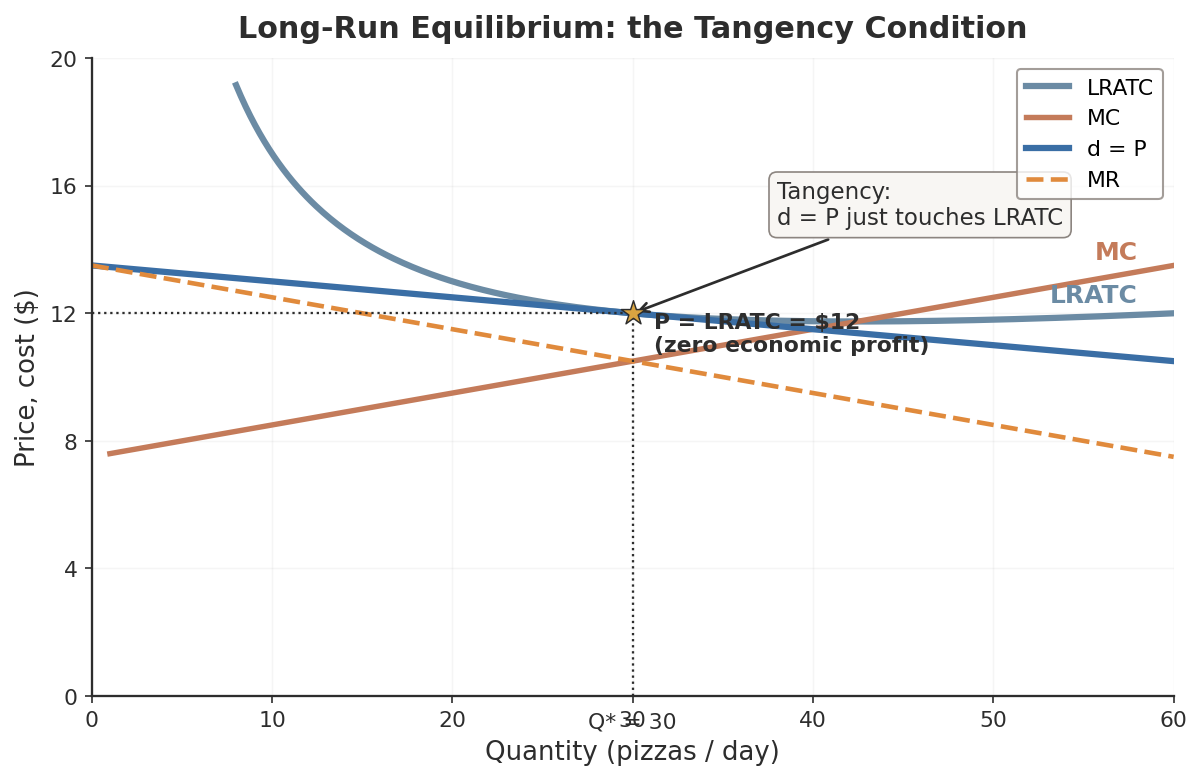
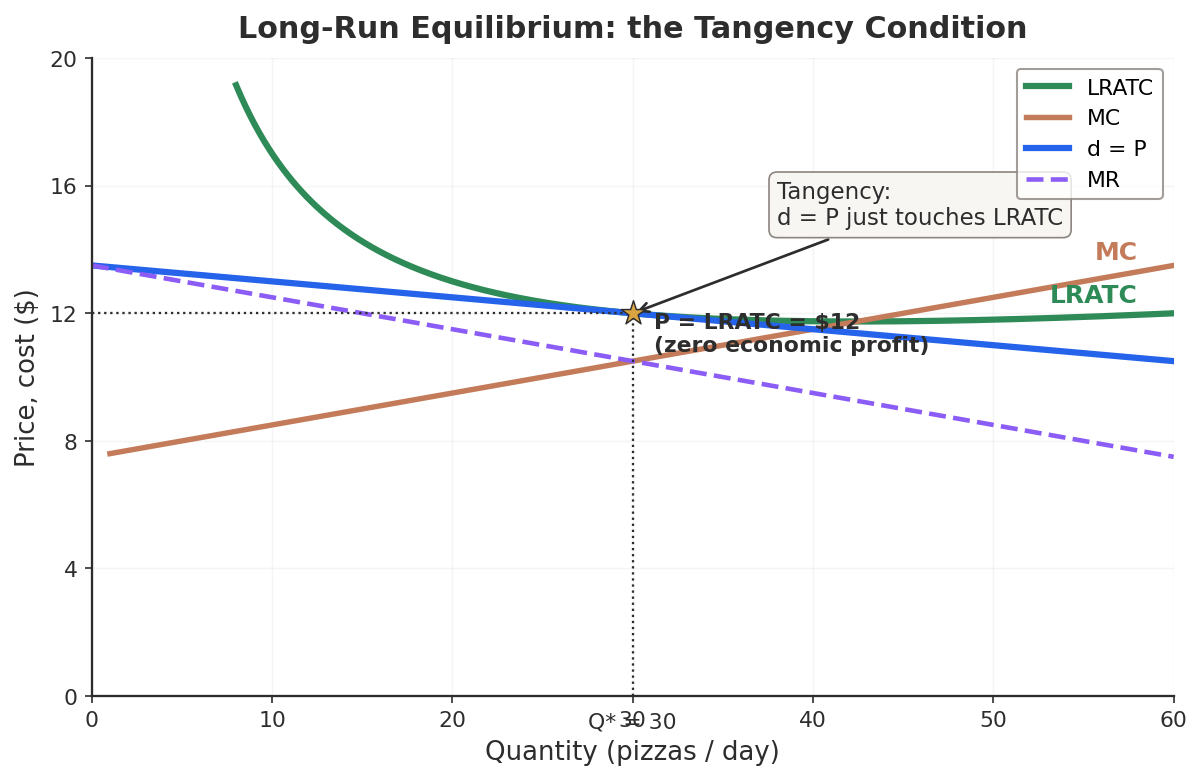
ch12: recolor cost-curve charts for readability (LRATC green vs blue demand)
LRATC/ATC -> green (#2e8b57), demand d=P -> blue (#2563eb), MC -> terracotta,
MR -> purple dashed. Fixes the two-blues clash (LRATC vs demand) on pages
35/41/42/46/50; banner+caption say LRATC consistently.

diff --git a/econ1116/ch12-monopolistic-competition/index.html b/econ1116/ch12-monopolistic-competition/index.html
@@ -699,7 +699,7 @@
    <svg id="f122-svg" viewBox="0 0 700 380" preserveAspectRatio="xMidYMid meet" style="width:100%; height:auto; max-height:288px; display:block;"></svg>
    <div style="max-width:420px; margin:4px auto 0;"><label class="iv-label">Drag demand &mdash; up = profit, down = loss</label><input type="range" class="iv-slider" id="f122-a" min="12.0" max="15.0" step="0.05" value="13.5"></div>
    <div style="text-align:center; margin-top:6px;"><button class="iv-btn" id="f122-release"><i class="fa-solid fa-arrows-rotate"></i> Release &rarr; entry/exit eases to tangency</button></div>
-   <p class="iv-cap">Figure 12.2 &mdash; the tangency is an <strong>attractor</strong>: perturb demand, release, and entry/exit pulls it back to P = ATC.</p>
+   <p class="iv-cap">Figure 12.2 &mdash; the tangency is an <strong>attractor</strong>: perturb demand, release, and entry/exit pulls it back to P = LRATC.</p>
   </div>
  </div>
  <aside class="notes">Key contrast with Ch 10: in PC, entry shifts the MARKET supply curve and the price falls. In MC, entry shifts each FIRM'S demand curve left. Same destination (zero profit), different channel. The interactive Figure 12.2 makes it tangible: drag demand up/down to create temporary profit/loss, release, and entry/exit eases it back to the zero-profit tangency.</aside>
@@ -1355,17 +1355,17 @@
    var good=prof>=0, fill=good?'rgba(106,142,107,0.22)':'rgba(168,92,92,0.20)', ec=good?'#6A8E6B':'#A85C5C';
    var yTop=yy(Math.max(P,atc)), yBot=yy(Math.min(P,atc));
    s+='<rect x="'+xx(0).toFixed(1)+'" y="'+yTop.toFixed(1)+'" width="'+(xx(qs)-xx(0)).toFixed(1)+'" height="'+(yBot-yTop).toFixed(1)+'" fill="'+fill+'" stroke="'+ec+'" stroke-width="1.1" stroke-dasharray="4 3"/>';
-   s+='<path d="'+pathfn(ATC,8,QMAX)+'" fill="none" stroke="#6B8BA4" stroke-width="2.6"/>';
+   s+='<path d="'+pathfn(ATC,8,QMAX)+'" fill="none" stroke="#2e8b57" stroke-width="2.6"/>';
    s+='<path d="'+pathfn(MC,2,QMAX)+'" fill="none" stroke="#C47B5A" stroke-width="2.4"/>';
    s+='<path d="'+pathfn(function(q){return Df(a,q);},0,QMAX)+'" fill="none" stroke="#2563eb" stroke-width="2.8"/>';
    s+='<path d="'+pathfn(function(q){return MRf(a,q);},0,QMAX)+'" fill="none" stroke="#8b5cf6" stroke-width="2.2" stroke-dasharray="7 4"/>';
    s+='<text x="'+(R-4)+'" y="'+(yy(MC(57))-6).toFixed(1)+'" text-anchor="end" font-size="12" font-weight="700" fill="#C47B5A">MC</text>';
-   s+='<text x="'+(R-4)+'" y="'+(yy(ATC(57))+15).toFixed(1)+'" text-anchor="end" font-size="12" font-weight="700" fill="#6B8BA4">'+atcLabel+'</text>';
+   s+='<text x="'+(R-4)+'" y="'+(yy(ATC(57))+15).toFixed(1)+'" text-anchor="end" font-size="12" font-weight="700" fill="#2e8b57">'+atcLabel+'</text>';
    s+='<text x="'+(xx(QMAX)-4)+'" y="'+(yy(Df(a,QMAX))-7).toFixed(1)+'" text-anchor="end" font-size="12.5" font-weight="700" font-style="italic" fill="#2563eb">D</text>';
    s+='<text x="'+xx(Math.min(QMAX-12,qs+26)).toFixed(1)+'" y="'+(yy(MRf(a,Math.min(QMAX-12,qs+26)))+14).toFixed(1)+'" font-size="11.5" font-weight="700" font-style="italic" fill="#8b5cf6">MR</text>';
    s+='<line x1="'+xx(qs).toFixed(1)+'" y1="'+yy(P).toFixed(1)+'" x2="'+xx(qs).toFixed(1)+'" y2="'+Bm+'" stroke="#9ca3af" stroke-width="1" stroke-dasharray="4 3"/>';
    s+='<text x="'+xx(qs).toFixed(1)+'" y="'+(Bm-5)+'" text-anchor="middle" font-size="10.5" font-weight="700" fill="#3A3632">Q* = '+qs.toFixed(0)+'</text>';
-   s+='<circle cx="'+xx(qs).toFixed(1)+'" cy="'+yy(atc).toFixed(1)+'" r="5" fill="#6B8BA4" stroke="#fff" stroke-width="1.6"/>';
+   s+='<circle cx="'+xx(qs).toFixed(1)+'" cy="'+yy(atc).toFixed(1)+'" r="5" fill="#2e8b57" stroke="#fff" stroke-width="1.6"/>';
    s+='<circle cx="'+xx(qs).toFixed(1)+'" cy="'+yy(P).toFixed(1)+'" r="6.5" fill="#2563eb" stroke="#fff" stroke-width="2"/>';
    svg.innerHTML=s;
    var z=prof>0.5?'profit':(prof<-0.5?'loss':'zero');
@@ -1374,7 +1374,7 @@
    var bg=z==='profit'?'rgba(106,142,107,0.16)':(z==='loss'?'rgba(168,92,92,0.14)':'rgba(107,139,164,0.16)');
    bn.innerHTML=bt; bn.style.color=bc; bn.style.background=bg;
    var pc=prof>=0?'#4d7a4e':'#A85C5C';
-   sc.innerHTML='<span style="color:#2563eb;">P* = $'+P.toFixed(2)+'</span><span style="color:#6B8BA4;">'+atcLabel+' = $'+atc.toFixed(2)+'</span><span style="color:#3A3632;">Q* = '+qs.toFixed(0)+'</span><span style="color:'+pc+';">Profit = $'+prof.toFixed(0)+'</span>';
+   sc.innerHTML='<span style="color:#2563eb;">P* = $'+P.toFixed(2)+'</span><span style="color:#2e8b57;">'+atcLabel+' = $'+atc.toFixed(2)+'</span><span style="color:#3A3632;">Q* = '+qs.toFixed(0)+'</span><span style="color:'+pc+';">Profit = $'+prof.toFixed(0)+'</span>';
    document.querySelectorAll('[data-a][data-grp="'+prefix+'"]').forEach(function(btn){btn.classList.toggle('active',Math.abs(parseFloat(btn.dataset.a)-a)<0.03);});
   }
   aS.addEventListener('input',draw);

diff --git a/econ1116/ch12-monopolistic-competition/presentation.html b/econ1116/ch12-monopolistic-competition/presentation.html
@@ -699,7 +699,7 @@
    <svg id="f122-svg" viewBox="0 0 700 380" preserveAspectRatio="xMidYMid meet" style="width:100%; height:auto; max-height:288px; display:block;"></svg>
    <div style="max-width:420px; margin:4px auto 0;"><label class="iv-label">Drag demand &mdash; up = profit, down = loss</label><input type="range" class="iv-slider" id="f122-a" min="12.0" max="15.0" step="0.05" value="13.5"></div>
    <div style="text-align:center; margin-top:6px;"><button class="iv-btn" id="f122-release"><i class="fa-solid fa-arrows-rotate"></i> Release &rarr; entry/exit eases to tangency</button></div>
-   <p class="iv-cap">Figure 12.2 &mdash; the tangency is an <strong>attractor</strong>: perturb demand, release, and entry/exit pulls it back to P = ATC.</p>
+   <p class="iv-cap">Figure 12.2 &mdash; the tangency is an <strong>attractor</strong>: perturb demand, release, and entry/exit pulls it back to P = LRATC.</p>
   </div>
  </div>
  <aside class="notes">Key contrast with Ch 10: in PC, entry shifts the MARKET supply curve and the price falls. In MC, entry shifts each FIRM'S demand curve left. Same destination (zero profit), different channel. The interactive Figure 12.2 makes it tangible: drag demand up/down to create temporary profit/loss, release, and entry/exit eases it back to the zero-profit tangency.</aside>
@@ -1355,17 +1355,17 @@
    var good=prof>=0, fill=good?'rgba(106,142,107,0.22)':'rgba(168,92,92,0.20)', ec=good?'#6A8E6B':'#A85C5C';
    var yTop=yy(Math.max(P,atc)), yBot=yy(Math.min(P,atc));
    s+='<rect x="'+xx(0).toFixed(1)+'" y="'+yTop.toFixed(1)+'" width="'+(xx(qs)-xx(0)).toFixed(1)+'" height="'+(yBot-yTop).toFixed(1)+'" fill="'+fill+'" stroke="'+ec+'" stroke-width="1.1" stroke-dasharray="4 3"/>';
-   s+='<path d="'+pathfn(ATC,8,QMAX)+'" fill="none" stroke="#6B8BA4" stroke-width="2.6"/>';
+   s+='<path d="'+pathfn(ATC,8,QMAX)+'" fill="none" stroke="#2e8b57" stroke-width="2.6"/>';
    s+='<path d="'+pathfn(MC,2,QMAX)+'" fill="none" stroke="#C47B5A" stroke-width="2.4"/>';
    s+='<path d="'+pathfn(function(q){return Df(a,q);},0,QMAX)+'" fill="none" stroke="#2563eb" stroke-width="2.8"/>';
    s+='<path d="'+pathfn(function(q){return MRf(a,q);},0,QMAX)+'" fill="none" stroke="#8b5cf6" stroke-width="2.2" stroke-dasharray="7 4"/>';
    s+='<text x="'+(R-4)+'" y="'+(yy(MC(57))-6).toFixed(1)+'" text-anchor="end" font-size="12" font-weight="700" fill="#C47B5A">MC</text>';
-   s+='<text x="'+(R-4)+'" y="'+(yy(ATC(57))+15).toFixed(1)+'" text-anchor="end" font-size="12" font-weight="700" fill="#6B8BA4">'+atcLabel+'</text>';
+   s+='<text x="'+(R-4)+'" y="'+(yy(ATC(57))+15).toFixed(1)+'" text-anchor="end" font-size="12" font-weight="700" fill="#2e8b57">'+atcLabel+'</text>';
    s+='<text x="'+(xx(QMAX)-4)+'" y="'+(yy(Df(a,QMAX))-7).toFixed(1)+'" text-anchor="end" font-size="12.5" font-weight="700" font-style="italic" fill="#2563eb">D</text>';
    s+='<text x="'+xx(Math.min(QMAX-12,qs+26)).toFixed(1)+'" y="'+(yy(MRf(a,Math.min(QMAX-12,qs+26)))+14).toFixed(1)+'" font-size="11.5" font-weight="700" font-style="italic" fill="#8b5cf6">MR</text>';
    s+='<line x1="'+xx(qs).toFixed(1)+'" y1="'+yy(P).toFixed(1)+'" x2="'+xx(qs).toFixed(1)+'" y2="'+Bm+'" stroke="#9ca3af" stroke-width="1" stroke-dasharray="4 3"/>';
    s+='<text x="'+xx(qs).toFixed(1)+'" y="'+(Bm-5)+'" text-anchor="middle" font-size="10.5" font-weight="700" fill="#3A3632">Q* = '+qs.toFixed(0)+'</text>';
-   s+='<circle cx="'+xx(qs).toFixed(1)+'" cy="'+yy(atc).toFixed(1)+'" r="5" fill="#6B8BA4" stroke="#fff" stroke-width="1.6"/>';
+   s+='<circle cx="'+xx(qs).toFixed(1)+'" cy="'+yy(atc).toFixed(1)+'" r="5" fill="#2e8b57" stroke="#fff" stroke-width="1.6"/>';
    s+='<circle cx="'+xx(qs).toFixed(1)+'" cy="'+yy(P).toFixed(1)+'" r="6.5" fill="#2563eb" stroke="#fff" stroke-width="2"/>';
    svg.innerHTML=s;
    var z=prof>0.5?'profit':(prof<-0.5?'loss':'zero');
@@ -1374,7 +1374,7 @@
    var bg=z==='profit'?'rgba(106,142,107,0.16)':(z==='loss'?'rgba(168,92,92,0.14)':'rgba(107,139,164,0.16)');
    bn.innerHTML=bt; bn.style.color=bc; bn.style.background=bg;
    var pc=prof>=0?'#4d7a4e':'#A85C5C';
-   sc.innerHTML='<span style="color:#2563eb;">P* = $'+P.toFixed(2)+'</span><span style="color:#6B8BA4;">'+atcLabel+' = $'+atc.toFixed(2)+'</span><span style="color:#3A3632;">Q* = '+qs.toFixed(0)+'</span><span style="color:'+pc+';">Profit = $'+prof.toFixed(0)+'</span>';
+   sc.innerHTML='<span style="color:#2563eb;">P* = $'+P.toFixed(2)+'</span><span style="color:#2e8b57;">'+atcLabel+' = $'+atc.toFixed(2)+'</span><span style="color:#3A3632;">Q* = '+qs.toFixed(0)+'</span><span style="color:'+pc+';">Profit = $'+prof.toFixed(0)+'</span>';
    document.querySelectorAll('[data-a][data-grp="'+prefix+'"]').forEach(function(btn){btn.classList.toggle('active',Math.abs(parseFloat(btn.dataset.a)-a)<0.03);});
   }
   aS.addEventListener('input',draw);
